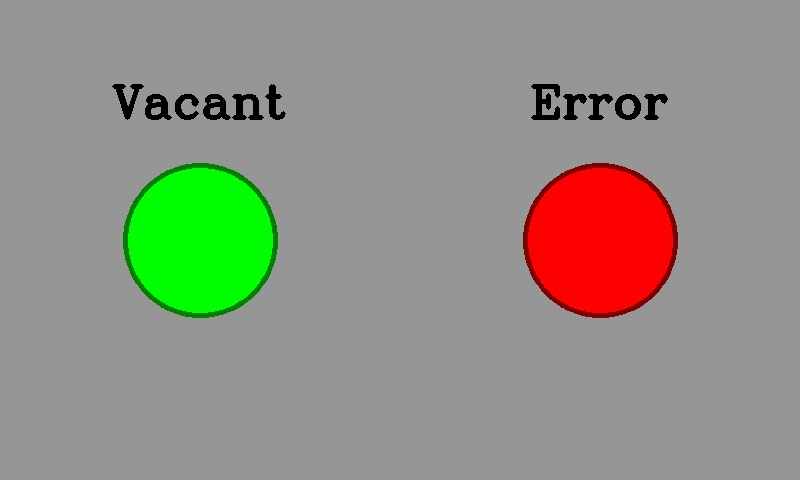
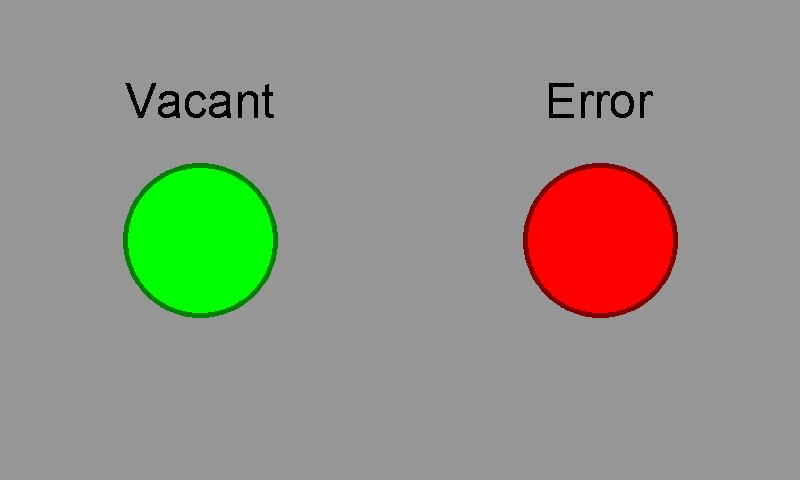
.

Changed region(s): [[0.125, 0.1562, 0.375, 0.25], [0.6562, 0.1562, 0.8438, 0.25]]

diff --git a/py/HMI_img_generate/gen_half_80480.py b/py/HMI_img_generate/gen_half_80480.py
@@ -12,16 +12,19 @@ font1.loadFontData('./arial.ttf',0)
 font2 = cv2.freetype.createFreeType2()
 font2.loadFontData('./times.ttf',0)
 
-ft1 = cv2.FONT_HERSHEY_COMPLEX
-ft2 = cv2.FONT_HERSHEY_COMPLEX
+#ft1 = cv2.FONT_HERSHEY_COMPLEX
+#ft2 = cv2.FONT_HERSHEY_COMPLEX
+ft1, ft2 = font1, font2
 x1, x2 = 200, 600
 y1, y2 = 100, 400
 c1 = (200,240)
 c2 = (600,240)
 radius = 75
-scale1, thick1 = 1.5,3
+#scale1, thick1 = 1.5,3
+scale1, thick1 = 48,-1
 color1 = (0,0,0)
-scale2, thick2 = 1,2
+#scale2, thick2 = 1,2
+scale2, thick2 = 32,-1
 color2 = (0,0,0)
 #@#@#@#@#@#@#@# Config #@#@#@#@#@#@#@#
 
